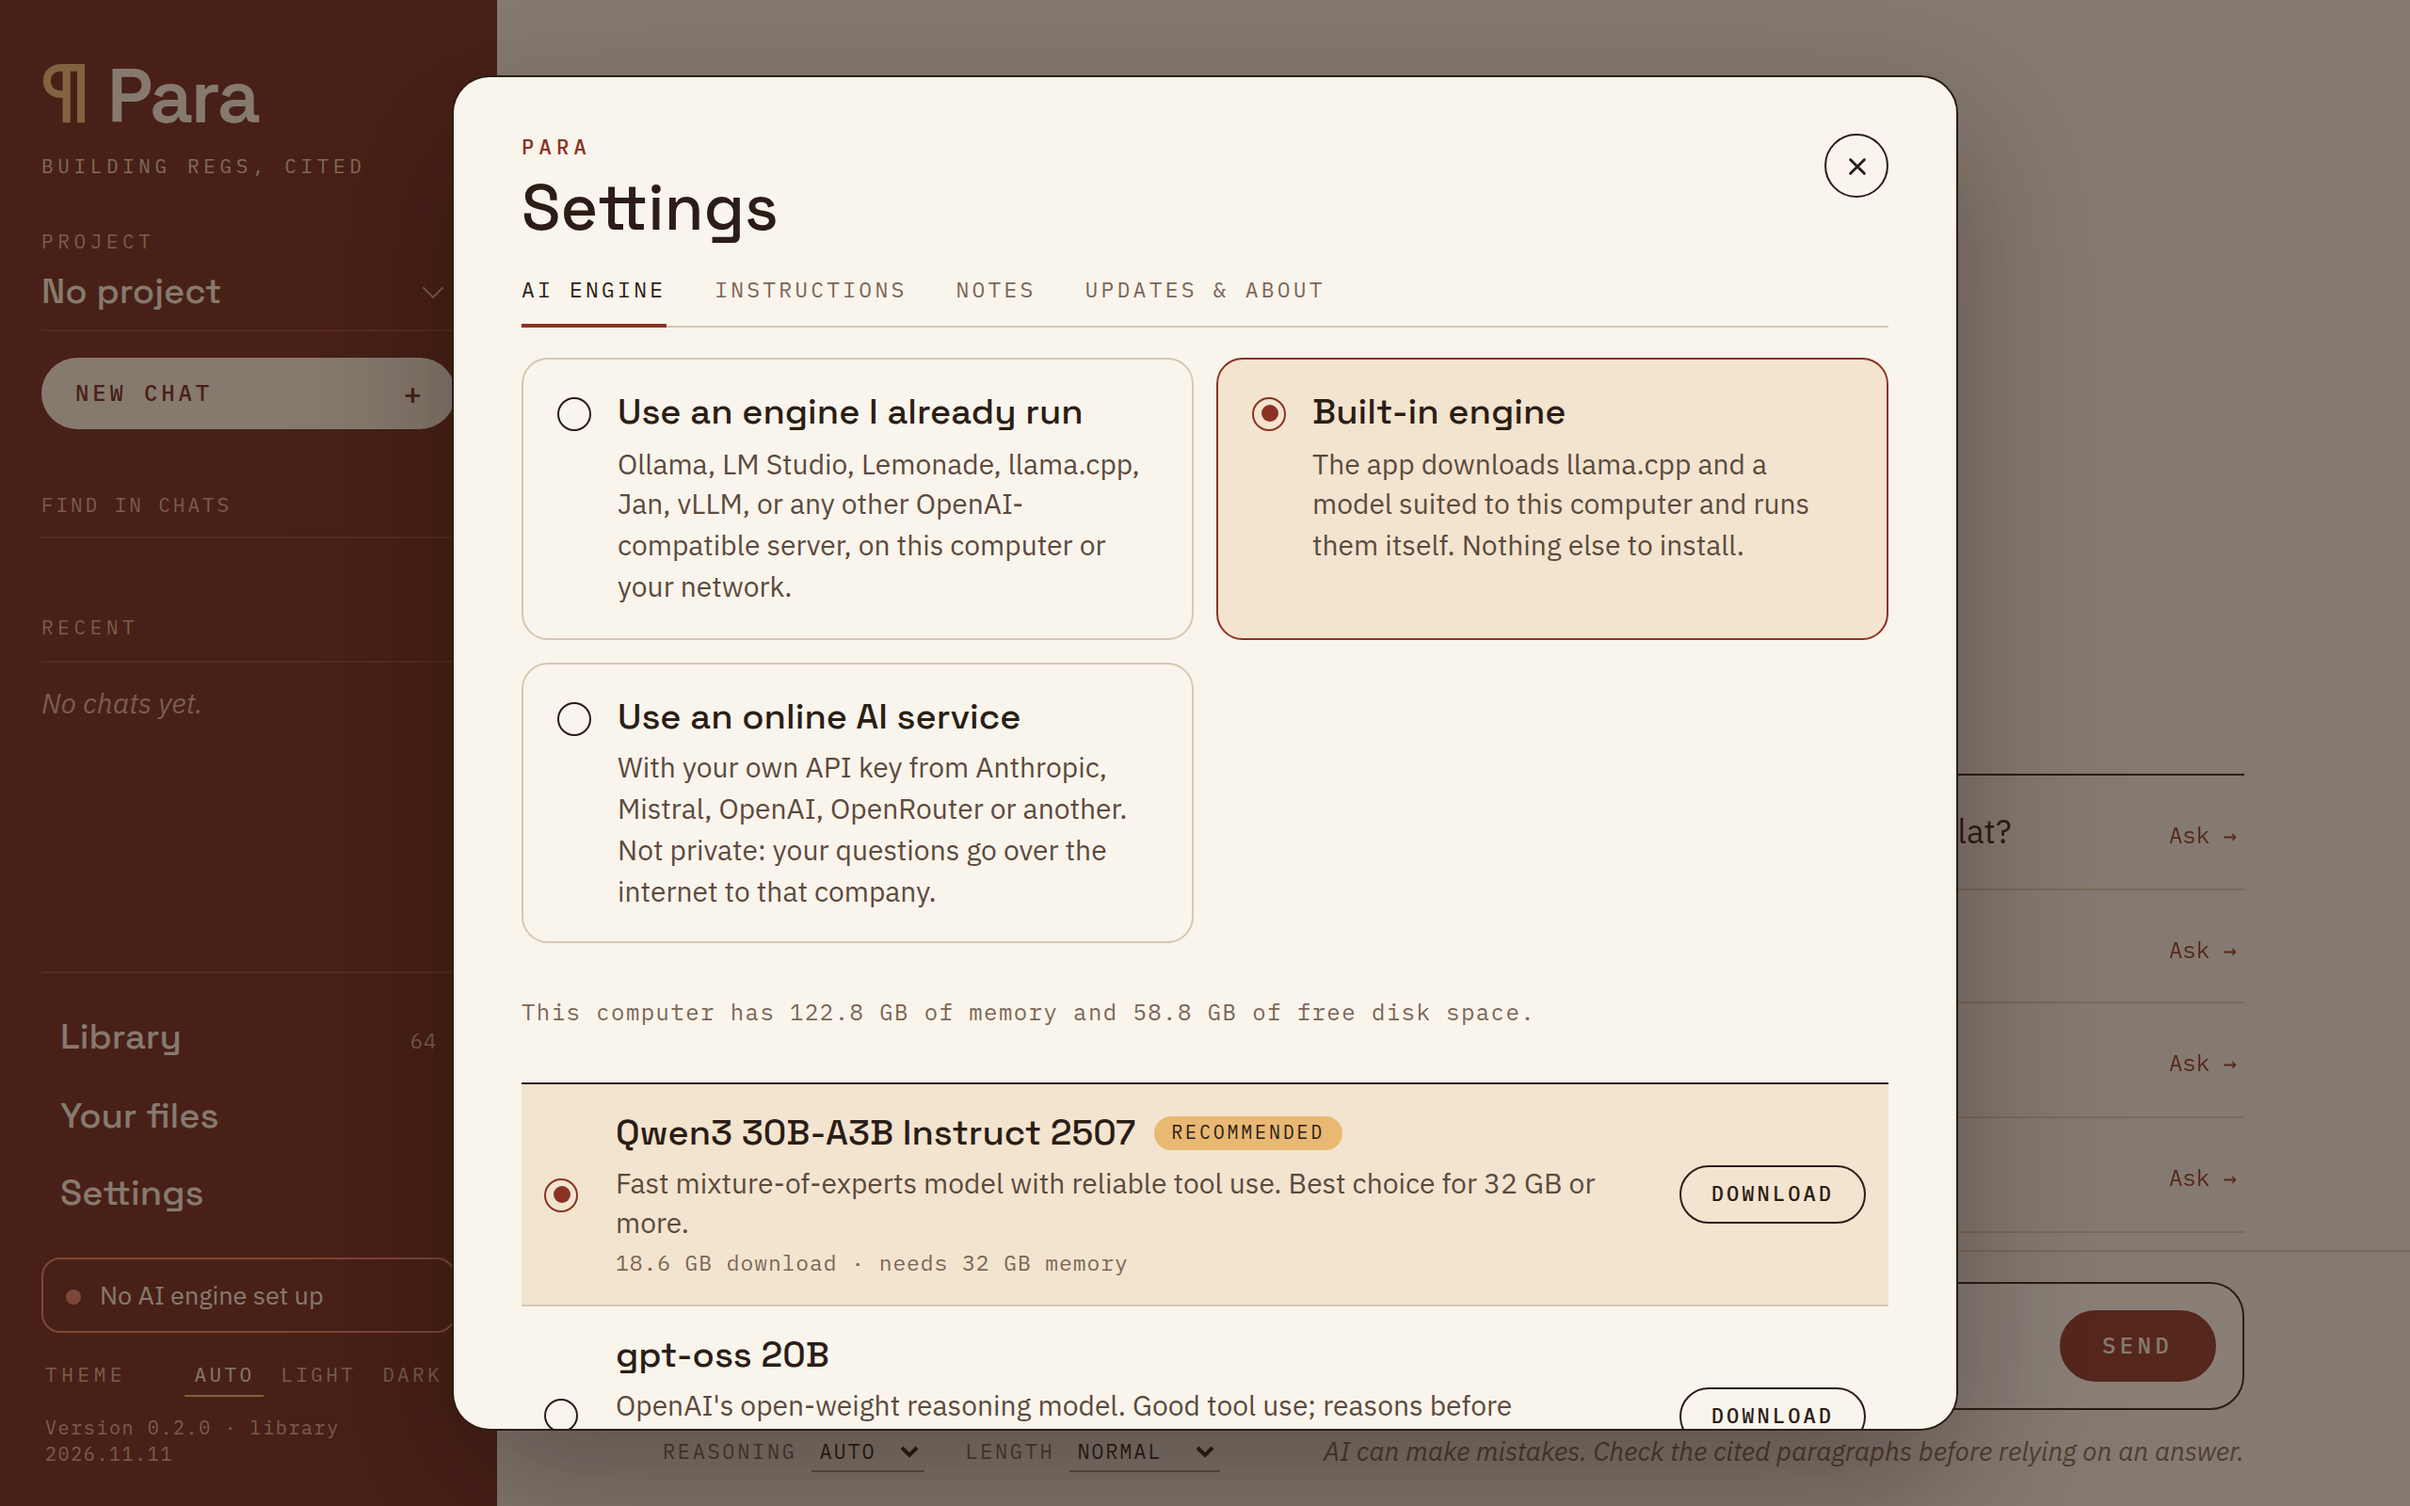
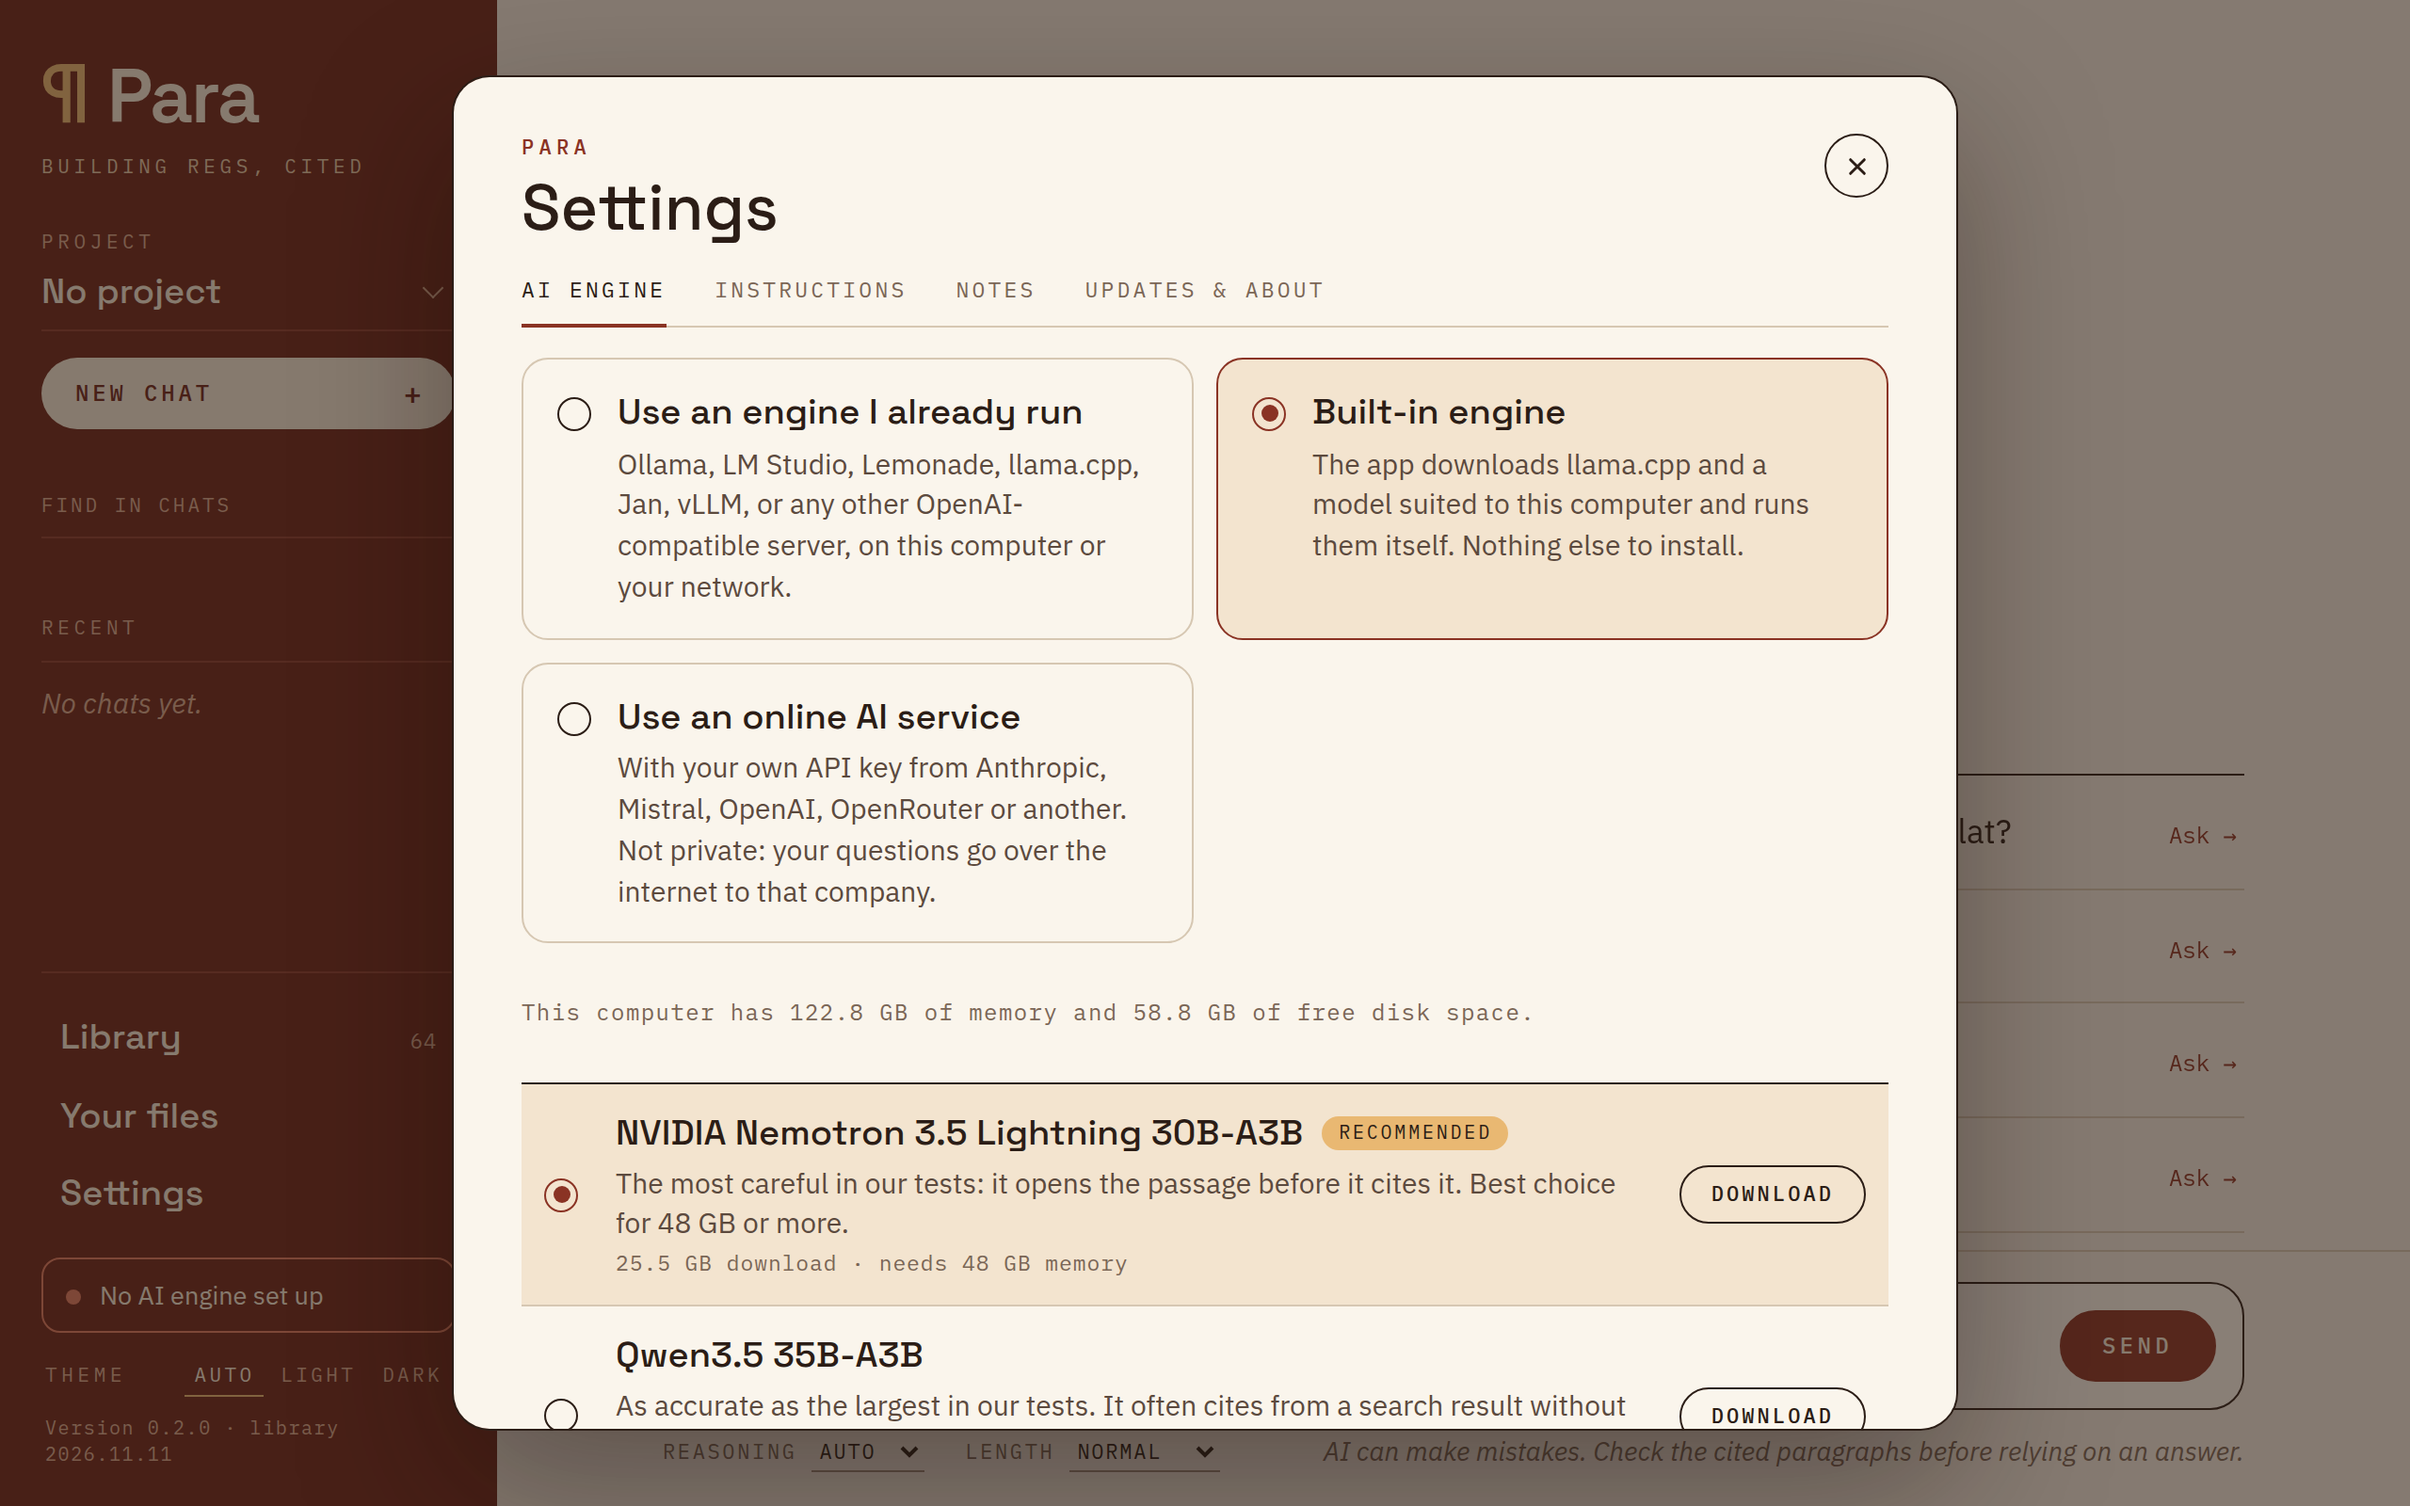
Built-in models: the two that did best, and a safer small one
Nemotron 3.5 Lightning and Qwen3.5 35B-A3B got 34 of the 36 questions right
on Lemonade but had never been run on the engine the app installs, so the
list still offered Qwen3 30B-A3B (28). Each was downloaded by the app on
llama.cpp b12078 and asked the 36: Qwen3.5 33 right, Nemotron 31. They
replace Qwen3 30B-A3B: Nemotron from 48 GB, because it opens the passage
before citing it, Qwen3.5 from 32 GB.

Gemma 4 E4B is the suggestion for 12 to 16 GB. It gets no more right than
Qwen3 4B (22), but it searches and cites every time and mostly fails by
saying it can't find something, where the 4B gives figures from memory. Each
small model's description says how often it was wrong, and the README has
the scores and the licences beside the table.

Changed region(s): [[0.25, 0.7188, 0.6562, 0.8438], [0.25, 0.875, 0.6562, 0.9375]]

diff --git a/docs/model-tests.md b/docs/model-tests.md
@@ -181,6 +181,36 @@ What reading the answers adds:
   same answer's "1 100 mm" for dwellings is a true flag.
 - After the fixes the same answers give 20 flags, none of them a false alarm.
 
+### Run E: the Lemonade models through the built-in engine, and the list rewritten
+
+The two models that did best on Lemonade had never been run on the engine the app installs, so weren't listed. Each
+was downloaded by the app (llama.cpp b12078) and asked the 36 questions, with Gemma 4 E4B as a small candidate:
+
+| Model | File | Right figures | Searched | Cited | Right passage cited | Made-up ids removed | Figures flagged | Extract-only citations | Median time |
+|---|---|---|---|---|---|---|---|---|---|
+| Qwen3.5 35B-A3B | 22.2 GB | 33/36 | 36/36 | 34/36 | 29/36 | 1 | 4 | 56 of 125 | 18 s |
+| NVIDIA Nemotron 3.5 Lightning 30B-A3B | 25.5 GB | 31/36 | 36/36 | 33/36 | 29/36 | 0 | 3 | 11 of 81 | 23 s |
+| Gemma 4 E4B | 5.0 GB | 22/36 | 36/36 | 36/36 | 24/36 | 0 | 2 | 35 of 71 | 22 s |
+
+- **Both big models hold up**: 33 and 31 right against 28 for Qwen3 30B-A3B Instruct 2507, which they replace in the
+  list. They are level on accuracy over the two engines (34 and 34 on Lemonade); Nemotron is suggested first because
+  it opens the passage before citing it (11 extract-only citations against 56). On this run Qwen3.5 gave 8 weeks for
+  the higher-risk approval period (it is 12) and quarterly checks for flat entrance doors (annual): both wrong, both
+  with a citation.
+- **Gemma 4 E4B is the safer of the two small models.** It and Qwen3 4B get about the same number right, but they fail
+  differently: Gemma searches and cites every time, and most of its misses are an incomplete answer or "I couldn't
+  find it"; the 4B never opens a passage and gave wrong figures from memory (150 litres a day, a window U-value of
+  1.4, 40 dB). Gemma did give two wrong figures for sound insulation (55 and 58 dB), and the figure note caught both.
+  It needs about 7 GB loaded, so the 4B stays as the only one for 8 GB computers.
+- All nine flags in this run are true.
+- **Licences**: Qwen3.5, Gemma 4, gpt-oss and Qwen3 are Apache 2.0. Nemotron 3.5 Lightning is under OpenMDW 1.1
+  (NVIDIA's model card says so; the "NVIDIA Nemotron Open Model License" is for other models). Both allow use and
+  redistribution with the licence kept alongside. The app doesn't redistribute any of them: it downloads each from
+  Hugging Face onto the person's computer.
+
+The list in `para/models.json` after this run: Nemotron 3.5 Lightning from 48 GB, Qwen3.5 35B-A3B from 32 GB,
+gpt-oss 20B from 24 GB, Gemma 4 E4B from 12 GB, Qwen3 4B from 8 GB.
+
 ## Built-in engine
 
 - `para/models.json`: every repo and file exists on Hugging Face with the listed size (checked with `HEAD` and
@@ -200,16 +230,16 @@ What reading the answers adds:
 
 For the built-in list, the candidates that did best and come from the models' own publishers:
 
+What the built-in list is now, and why, is at the end of run E. The earlier notes, from the seven questions:
+
 - **32 GB or more**: Nemotron 3.5 Lightning 30B-A3B or Qwen3.5-35B-A3B (both 7/7, about 30 s). Qwen3.6-35B-A3B is
   close (6/7 plain, 7/7 figures with MTP).
-- **16 to 24 GB**: Gemma 4 12B was weaker than its size suggests here. gpt-oss 20B (24 GB) is the most careful of the
-  built-in models: it reads before citing. Qwen3 8B did no better than the 4B on the 36 questions (run D).
+- **16 to 24 GB**: Gemma 4 12B was weaker than its size suggests here.
 - **8 GB**: Qwen3 4B is fast but answers from memory sometimes; Gemma 4 E4B is better at searching but picked the
   wrong document for guarding.
 
 The coding and community fine-tunes (Tiel-Coder, KAT-Coder, Muse-Glimmer, Dirk, HRX) scored well but are less
-suited as defaults. Qwen and gpt-oss are Apache 2.0; Gemma and Nemotron have their own licence terms, to be read
-before listing them.
+suited as defaults.
 
 ## Repeating the tests
 

diff --git a/TODO.md b/TODO.md
@@ -13,6 +13,9 @@ were worked through at the workstation on 11 November 2026 with real models and 
 - **Built-in models**: gpt-oss 20B, Qwen3 8B and Qwen3 30B-A3B were each downloaded by the app and asked the 36
   questions. All three answer with citations. Qwen3 8B was taken out of the list all the same: it did no better
   than the 4B, at five times the wait, and made up passage ids.
+- **The built-in list was rewritten from the tests** (run E): Nemotron 3.5 Lightning and Qwen3.5 35B-A3B, the two
+  best on Lemonade, were run through the built-in engine and replace Qwen3 30B-A3B; Gemma 4 E4B is the suggestion
+  for 12 to 16 GB.
 - **The 36 questions on Lemonade** (Nemotron 3.5, Qwen3.5-35B, Gemma 4 E4B), every answer read, every flagged figure
   judged: 20 true, 4 false alarms from two causes, both fixed with tests.
 - **The library**: two-column pages are now read from where their lines are (`library/columns.py`). By
@@ -50,8 +53,13 @@ were worked through at the workstation on 11 November 2026 with real models and 
 
 ## Known and left
 
-- **Someone who installed Qwen3 8B** keeps the 5 GB file in their app folder, but the app no longer lists it and
-  asks them to choose a model again. Nothing removes the file for them.
+- **Someone who installed Qwen3 8B or Qwen3 30B-A3B** keeps the file in their app folder (5 and 18.6 GB), but the
+  app no longer lists it and asks them to choose a model again. Nothing removes the file for them.
+- **Nemotron 3.5 Super (120B)** isn't listed: its GGUF comes in three parts (87 GB at Q4) and the engine downloads
+  one file a model. On the workstation the graphics side can address 66 GB, so part of it would run on the
+  processor.
+- **A Mac can give its graphics side about three quarters of its memory**, and `engine.recommend` goes by the whole
+  of it: a 32 GB Mac is suggested Qwen3.5, which may not fit. The memory check stops a load that won't.
 - **39 passages out of order** (`python3 library/order.py --list`): covers, copyright pages, lists of other approved
   documents and of standards. A few running-header fragments are still left in passages ("N EBUILDINGS VERSION").
 - **Figure boxes**: `figures.py` gives ADE Table 0.2 the whole page and ADH Table A1 the full width. The text is read

diff --git a/README.md b/README.md
@@ -95,11 +95,21 @@ instead.
   address), paste your API key from that service, choose a model and press Save. Your questions, and passages from
   your own files, are sent to that company, so it isn't private.
 
-| Your computer | Suggested model | Download |
-|---|---|---|
-| 32 GB memory or more | Qwen3 30B-A3B Instruct 2507 | 18.6 GB |
-| 24 GB | gpt-oss 20B | 12.1 GB |
-| 8 to 16 GB | Qwen3 4B Instruct 2507 | 2.5 GB |
+**Which model the built-in engine suggests.** The app looks at your computer's memory and suggests the biggest
+model that fits. Bigger models get more right:
+
+| Your computer's memory | Suggested model | Download | Right, of our 36 test questions | Licence |
+|---|---|---|---|---|
+| 48 GB or more | NVIDIA Nemotron 3.5 Lightning 30B-A3B | 25.5 GB | 31 | OpenMDW 1.1 |
+| 32 GB | Qwen3.5 35B-A3B | 22.2 GB | 33 | Apache 2.0 |
+| 24 GB | gpt-oss 20B | 12.1 GB | 27 | Apache 2.0 |
+| 12 to 16 GB | Gemma 4 E4B | 5.0 GB | 22 | Apache 2.0 |
+| 8 GB | Qwen3 4B Instruct 2507 | 2.5 GB | 20 to 25 | Apache 2.0 |
+
+The two small models get about one question in three wrong. Gemma mostly fails by saying it can't find something
+that is in the library; the 4B sometimes gives a figure from memory. With either, open each cited paragraph before
+you rely on the answer: the app marks citations the AI didn't read in full and figures the cited paragraph doesn't
+hold. The questions and every model's results are in [docs/model-tests.md](docs/model-tests.md).
 
 The model list ([para/models.json](para/models.json)) is also published with each release, so installed
 copies pick up better models without reinstalling.
